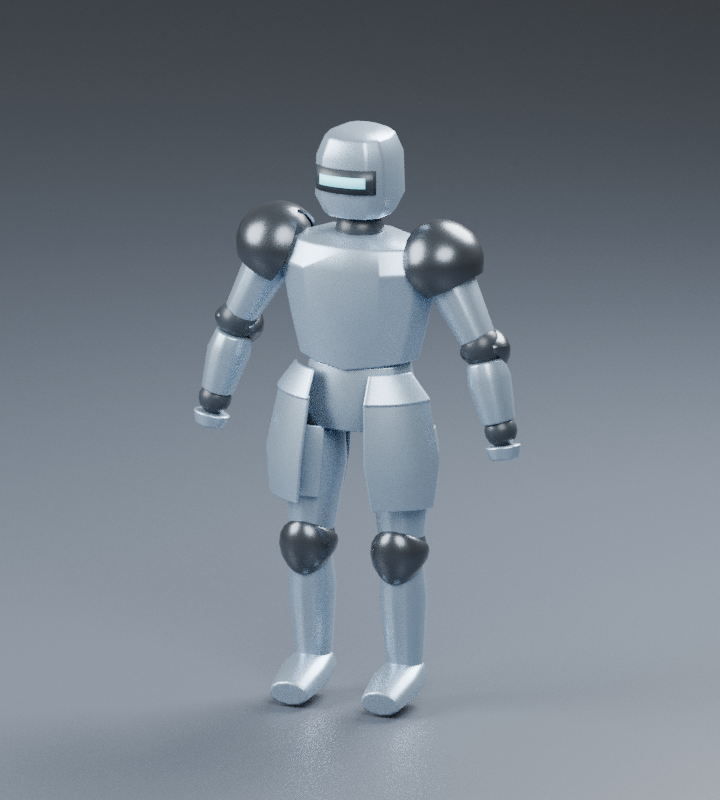
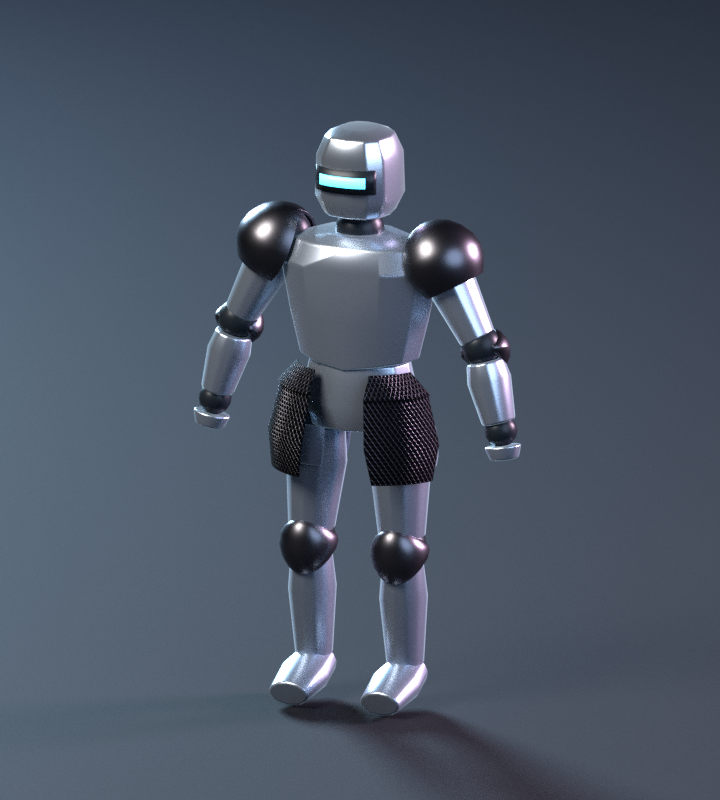
feat: adopt heroic player finish and chainmail hip skirts
Use the heroic player sprite's materials (rim-lit blue steel, dark iron
caps, glowing visor), night studio world, four-light rig and Medium High
Contrast look. Turn the diagonal hip plates into shorter blackened mail
with a procedural interlocking ring pattern, and end the cuisses above
the mail hem so no plate shows beneath it.

diff --git a/dev-samples/3d-stage1/rigged-armor/build.py b/dev-samples/3d-stage1/rigged-armor/build.py
@@ -30,18 +30,100 @@ for side, sign in [('L', 1), ('R', -1)]:
         f'shin.{side}': ((sign*.15, -.025, .52), (sign*.15, 0, .12), f'thigh.{side}'),
         f'foot.{side}': ((sign*.15, 0, .12), (sign*.15, -.20, .065), f'shin.{side}'),
         # Hinge at the top of the lower diagonal waist plate; driven by the thigh.
-        f'hip_plate.{side}': ((sign*.19, -.122, .98), (sign*.19, -.122, .66), 'pelvis'),
+        f'hip_plate.{side}': ((sign*.19, -.122, .997), (sign*.19, -.122, .741), 'pelvis'),
     })
 
 
-def material(name, color, metallic=0):
+def material(name, color, metallic=0, roughness=.38, emission=None, strength=0,
+             rim=None, rim_strength=0):
+    """Principled material with the heroic sprites' optional Fresnel rim glow
+    (see ../build-heroic.py material())."""
     mat = bpy.data.materials.new(name)
     mat.diffuse_color = (*color, 1)
     mat.use_nodes = True
-    shader = mat.node_tree.nodes.get('Principled BSDF')
+    nodes, links = mat.node_tree.nodes, mat.node_tree.links
+    shader = nodes.get('Principled BSDF')
     shader.inputs['Base Color'].default_value = (*color, 1)
     shader.inputs['Metallic'].default_value = metallic
-    shader.inputs['Roughness'].default_value = .38
+    shader.inputs['Roughness'].default_value = roughness
+    shader.inputs['IOR'].default_value = 1.45
+    if emission:
+        shader.inputs['Emission Color'].default_value = (*emission, 1)
+        shader.inputs['Emission Strength'].default_value = strength
+    if rim:
+        weight = nodes.new('ShaderNodeLayerWeight')
+        weight.inputs['Blend'].default_value = .3
+        power = nodes.new('ShaderNodeMath')
+        power.operation = 'POWER'
+        power.inputs[1].default_value = 3.5
+        glow = nodes.new('ShaderNodeEmission')
+        glow.inputs['Color'].default_value = (*rim, 1)
+        glow.inputs['Strength'].default_value = rim_strength
+        add = nodes.new('ShaderNodeAddShader')
+        mix = nodes.new('ShaderNodeMixShader')
+        links.new(weight.outputs['Facing'], power.inputs[0])
+        links.new(power.outputs[0], mix.inputs['Fac'])
+        links.new(shader.outputs[0], add.inputs[0])
+        links.new(glow.outputs[0], add.inputs[1])
+        links.new(shader.outputs[0], mix.inputs[1])
+        links.new(add.outputs[0], mix.inputs[2])
+        links.new(mix.outputs[0], nodes['Material Output'].inputs['Surface'])
+    return mat
+
+
+def chainmail_material(name, pitch=.016):
+    """Blackened iron mail: staggered rows of raised rings, each overlapping
+    its neighbors, over a dark gap,
+    laid out on the mesh UVs (in meters, so `pitch` is the ring spacing)."""
+    mat = material(name, (.10, .10, .115), 1.0, .38)
+    nodes, links = mat.node_tree.nodes, mat.node_tree.links
+    shader = nodes['Principled BSDF']
+
+    def math_node(op, a, b=None):
+        node = nodes.new('ShaderNodeMath')
+        node.operation = op
+        for socket, value in ((node.inputs[0], a), (node.inputs[1], b)):
+            if value is None:
+                continue
+            if isinstance(value, (int, float)):
+                socket.default_value = value
+            else:
+                links.new(value, socket)
+        return node.outputs[0]
+
+    uv = nodes.new('ShaderNodeTexCoord').outputs['UV']
+    split = nodes.new('ShaderNodeSeparateXYZ')
+    links.new(uv, split.inputs[0])
+    x = math_node('DIVIDE', split.outputs['X'], pitch)
+    # Rows overlap like real mail, so they sit closer than the ring spacing.
+    y = math_node('DIVIDE', split.outputs['Y'], pitch * .75)
+    # Every other row shifts by half a ring.
+    odd = math_node('FLOORED_MODULO', math_node('FLOOR', y), 2)
+    x = math_node('ADD', x, math_node('MULTIPLY', odd, .5))
+    fx = math_node('SUBTRACT', math_node('FRACT', x), .5)
+    fy = math_node('MULTIPLY', math_node('SUBTRACT', math_node('FRACT', y), .5), .75)
+    distance = math_node('SQRT', math_node('ADD', math_node('MULTIPLY', fx, fx),
+                                           math_node('MULTIPLY', fy, fy)))
+    off_wire = math_node('ABSOLUTE', math_node('SUBTRACT', distance, .44))
+    ring = nodes.new('ShaderNodeMapRange')
+    ring.interpolation_type = 'SMOOTHSTEP'
+    ring.inputs['From Min'].default_value, ring.inputs['From Max'].default_value = 0, .09
+    ring.inputs['To Min'].default_value, ring.inputs['To Max'].default_value = 1, 0
+    links.new(off_wire, ring.inputs['Value'])
+    wire = ring.outputs['Result']
+    color = nodes.new('ShaderNodeMix')
+    color.data_type = 'RGBA'
+    color.inputs['A'].default_value = (.008, .009, .012, 1)
+    color.inputs['B'].default_value = (.13, .13, .15, 1)
+    links.new(wire, color.inputs['Factor'])
+    links.new(color.outputs['Result'], shader.inputs['Base Color'])
+    links.new(math_node('SUBTRACT', .75, math_node('MULTIPLY', wire, .45)),
+              shader.inputs['Roughness'])
+    bump = nodes.new('ShaderNodeBump')
+    bump.inputs['Strength'].default_value = .8
+    bump.inputs['Distance'].default_value = .003
+    links.new(wire, bump.inputs['Height'])
+    links.new(bump.outputs['Normal'], shader.inputs['Normal'])
     return mat
 
 
@@ -196,24 +278,27 @@ def joint(rig, bone_name, radius, mat):
 
 
 def diagonal_waist_plates(rig, mat):
-    """Hang curved tassets around the front-side quarters of the hips.
+    """Hang curved mail skirts around the front-side quarters of the hips.
 
     The upper band is fixed to the pelvis. The lower plate tucks under it and
     swings on hip_plate so a raised thigh does not pass through it.
     """
     # Arc centered 50 degrees away from the front, wrapping toward the side.
     parts = [('Diagonal waist plate', 'pelvis',
-              [(1.065, .19, .145, 23), (.98, .25, .19, 29)]),
+              [(1.065, .19, .145, 23), (.997, .25, .19, 29)]),
              ('Diagonal waist plate lower', 'hip_plate',
-              [(.995, .238, .178, 29), (.80, .28, .21, 29), (.66, .27, .20, 24)])]
+              [(1.009, .238, .178, 29), (.853, .28, .21, 29), (.741, .27, .20, 24)])]
     for side, sign in (('L', 1), ('R', -1)):
         for name, bone_name, rows in parts:
-            vertices = []
+            vertices, uvs = [], []
             for z, radius_x, radius_y, half_angle in rows:
                 for i in range(13):
                     angle = math.radians(50 + half_angle * (2 * i / 12 - 1))
                     vertices.append((sign * radius_x * math.sin(angle),
                                      -radius_y * math.cos(angle), z))
+                    # Arc length and height in meters, shared by both parts
+                    # so the mail pattern runs on across the seam.
+                    uvs.append((sign * (angle - math.radians(50)) * .25, z))
             faces = []
             for row in range(len(rows) - 1):
                 for i in range(12):
@@ -222,25 +307,36 @@ def diagonal_waist_plates(rig, mat):
                     faces.append(face if sign == 1 else tuple(reversed(face)))
             mesh = bpy.data.meshes.new(f'{name} {side}')
             mesh.from_pydata(vertices, [], faces)
+            layer = mesh.uv_layers.new(name='Mail')
+            for loop in mesh.loops:
+                layer.data[loop.index].uv = uvs[loop.vertex_index]
             mesh.update()
             obj = bpy.data.objects.new(mesh.name, mesh)
             bpy.context.collection.objects.link(obj)
             attach(obj, rig, bone_name if bone_name == 'pelvis' else f'{bone_name}.{side}', mat)
-            solidify = obj.modifiers.new('Plate thickness', 'SOLIDIFY')
-            solidify.thickness = .012
+            for face in mesh.polygons:
+                face.use_smooth = True
+            # Mail is thinner than plate.
+            solidify = obj.modifiers.new('Mail thickness', 'SOLIDIFY')
+            solidify.thickness = .007
             bpy.context.view_layer.objects.active = obj
             bpy.ops.object.modifier_move_up(modifier=solidify.name)
             bpy.ops.object.modifier_move_up(modifier=solidify.name)
 
 
 def build_armor(rig):
-    steel = material('Satin steel', (.32, .43, .55), .75)
-    trim = material('Blackened joint steel', (.09, .105, .125), .85)
-    trim.node_tree.nodes.get('Principled BSDF').inputs['Roughness'].default_value = .28
+    # Same finishes as the heroic player sprite (../build-heroic.py).
+    steel = material('Player steel plate', (.55, .63, .74), .8, .32,
+                     rim=(.6, .85, 1.0), rim_strength=.8)
+    helm = material('Player steel helm', (.62, .70, .80), .85, .28,
+                    rim=(.7, .9, 1.0), rim_strength=.9)
+    greaves = material('Player steel greaves', (.45, .52, .62), .8, .35,
+                       rim=(.6, .8, 1.0), rim_strength=.6)
+    trim = material('Player dark iron trim', (.16, .16, .18), 1.0, .35)
     dark = material('Dark joint lining', (.025, .034, .045), .15)
     plate(rig, 'pelvis', 'Hip armor', [(0,.17,.12),(.08,.19,.14),(.205,.16,.12)], steel)
     plate(rig, 'waist', 'Flexible waist lining', [(0,.135,.10),(.16,.145,.11)], dark)
-    diagonal_waist_plates(rig, steel)
+    diagonal_waist_plates(rig, chainmail_material('Blackened chainmail'))
     breastplate = plate(rig, 'chest', 'Breast and back plate', [(-.085,.175,.13),(.04,.205,.145),
           (.20,.235,.16),(.27,.20,.13),(.30,.115,.09)], steel)
     # Extend the front center of the lower rim into a shallow V over the abdomen.
@@ -253,7 +349,7 @@ def build_armor(rig):
     joint(rig, 'neck', .075, dark)
     helmet_rings = [(-.035,.10,.105),(.025,.13,.13),
                     (.15,.125,.13),(.21,.10,.105),(.23,.055,.06)]
-    helmet = plate(rig, 'head', 'Helmet', helmet_rings, steel)
+    helmet = plate(rig, 'head', 'Helmet', helmet_rings, helm)
     matrix = rig.data.bones['head'].matrix_local
     for row, (along, width, depth) in enumerate(helmet_rings):
         for i in range(12):
@@ -283,10 +379,8 @@ def build_armor(rig):
         for face in mesh.polygons:
             face.use_smooth = True
     curved_visor('Visor curved rim', .20, .075, .008, dark)
-    glow = material('Visor pale cyan', (.22, .68, .78))
-    shader = glow.node_tree.nodes.get('Principled BSDF')
-    shader.inputs['Emission Color'].default_value = (.12, .65, .8, 1)
-    shader.inputs['Emission Strength'].default_value = 1.5
+    glow = material('Player visor glow', (.3, .9, 1.0), roughness=.35,
+                    emission=(.1, .75, 1.0), strength=2.5)
     curved_visor('Visor illuminated opening', .15, .032, .014, glow)
     for side in ('L','R'):
         for part, radius in [('upper_arm',.085),('forearm',.062),('hand',.05),
@@ -298,7 +392,8 @@ def build_armor(rig):
             length = rig.data.bones[bone_name].length
             plate(rig, bone_name, f'{part} plate {side}',
                   [(.045,width*.85,depth*.85),(length*.4,width,depth),
-                   (length-.025,width*.75,depth*.8)], steel)
+                   (length-.025,width*.75,depth*.8)],
+                  greaves if part in ('thigh', 'shin') else steel)
         plate(rig, f'upper_arm.{side}', f'Pauldron {side}',
               [(-.083,.008,.008),(-.077,.04,.04),(-.061,.07,.07),
                (-.035,.095,.095),(0,.115,.115),(.035,.122,.122),
@@ -313,12 +408,13 @@ def build_armor(rig):
                (.014,.078,.085),(.032,.072,.079),(.045,.058,.064),(.05,.049,.055)], trim,
               joint_inner_front=True, open_ends=True, top_cap=False)
         plate(rig, f'foot.{side}', f'Sabaton {side}',
-              [(-.025,.065,.055),(.075,.08,.06),(.20,.065,.04)], steel)
+              [(-.025,.065,.055),(.075,.08,.06),(.20,.065,.04)], greaves)
         # Cuisse shell hugs the thigh plate, open on the inner thigh; its top
-        # edge starts inside the hip armor so no flat rim shows.
+        # edge starts inside the hip armor and it ends above the mail hem, so
+        # it never shows as a second plate below the mail.
         plate(rig, f'thigh.{side}', f'Cuisse {side}',
-              [(.03,.098,.104),(.08,.106,.112),(.15,.106,.112),
-               (.21,.099,.104),(.25,.092,.097)], steel,
+              [(.03,.098,.104),(.08,.106,.112),(.12,.104,.11),
+               (.15,.098,.104)], greaves,
               open_ends=True, top_cap=False)
     for obj in bpy.context.scene.objects:
         if obj.name.startswith(('Pauldron ', 'Knee cap ', 'Elbow cap ', 'Cuisse ')):
@@ -361,23 +457,34 @@ def animate(rig, scene):
 
 def setup_scene(scene):
     scene.render.engine = 'CYCLES'
-    scene.cycles.samples = 48
+    # Render, world and light rig follow the heroic sprites (../build-heroic.py).
+    scene.cycles.samples = 96
     scene.cycles.use_denoising = False
-    scene.world = bpy.data.worlds.new('Studio world')
-    scene.world.color = (.18,.18,.18)
-    floor = material('Studio floor', (.065,.08,.105))
+    scene.cycles.sample_clamp_indirect = 2.0
+    scene.cycles.blur_glossy = 1.0
+    scene.cycles.caustics_reflective = scene.cycles.caustics_refractive = False
+    scene.view_settings.view_transform = 'Standard'
+    scene.view_settings.look = 'Medium High Contrast'
+    scene.world = bpy.data.worlds.new('Night studio')
+    scene.world.use_nodes = True
+    scene.world.node_tree.nodes['Background'].inputs['Color'].default_value = (.012, .018, .03, 1)
+    floor = material('Night floor', (.006, .008, .014), roughness=.8)
     ground_z = min((obj.matrix_world @ v.co).z for obj in scene.objects
                    if obj.type == 'MESH' for v in obj.data.vertices)
     bpy.ops.mesh.primitive_plane_add(size=200)
     bpy.context.object.name = 'Studio floor'
     bpy.context.object.location.z = ground_z - .005
     bpy.context.object.data.materials.append(floor)
-    for name, loc, power, size in [('Key', (3,-4,5), 650, 4),
-                                  ('Fill', (-3,-2,3), 450, 3),
-                                  ('Rim', (1,3,4), 800, 3)]:
+    # Warm key, cool fill, strong back rim lights for glossy edges.
+    for name, loc, power, size, color in [
+            ('Key', (-4,-6,8), 1000, 5, (1.0,.93,.85)),
+            ('Fill', (6,-3,4), 250, 6, (.6,.75,1.0)),
+            ('Rim left', (-7,6,4), 1300, 3, (.55,.8,1.0)),
+            ('Rim right', (7,6,4), 1300, 3, (1.0,.7,.9))]:
         bpy.ops.object.light_add(type='AREA', location=loc)
         obj = bpy.context.object
         obj.name, obj.data.energy, obj.data.shape, obj.data.size = name, power, 'DISK', size
+        obj.data.color = color
         obj.rotation_euler = (Vector((0,0,1))-obj.location).to_track_quat('-Z','Y').to_euler()
     bpy.ops.object.camera_add(location=(2.7,-6,2.7))
     camera = bpy.context.object

diff --git a/dev-samples/3d-stage1/rigged-armor/README.md b/dev-samples/3d-stage1/rigged-armor/README.md
@@ -27,19 +27,21 @@ Rotation で回転させる。回転はボーンのローカル座標。
 肘と膝には Limit Rotation を設定し、他の2軸を固定している。
 肩当ては上腕、肘当ては前腕、膝当てはすね、腿当ては左右の太ももに追従する。
 腿当ては太ももの板に沿う開いた殻で、内股側を空け、上端は腰甲の内側から始まる。
+下端は鎖帷子の裾より上で終わり、裾の下に板が見えないようにしている。
 肩当て・肘当て・膝当ては丸みのある黒っぽい金属製。
 肘当てと膝当ては、曲がる内側の幅を狭く、外側を広くした形状。
 肩当ては胸側の側面を切り欠いた中空の外装で、腕の付け根が入る余地を設けている。
 肘当てと膝当ても中空の殻で、曲がる軸の内側（肘は前、膝は後ろ）が開いている。
 開口部に向かって帯の幅が楕円状に狭まり、端は脚や腕に寄せて丸く閉じる。
 胸甲は腹部まで伸ばし、正面の下端は中央が少し下がる浅いV字にしている。
-左右の斜め前には、骨盤から下げた湾曲プレートを追加している。
+左右の斜め前には、骨盤から下げた黒い鉄の鎖帷子を追加している。
+輪が互い違いに重なる模様は、UV 上のノード計算による凹凸と色で表している。
 正面から左右50度の位置を中心に側面へ回り込み、中央を広く空けた形状。
-プレートは上下2枚に分かれる。上の帯は骨盤に固定し、下の板は上の帯の内側に
+鎖帷子は上下2枚に分かれる。上の帯は骨盤に固定し、下の板は上の帯の内側に
 上端を差し込み、`hip_plate` ボーンで上端を軸に回る。太ももを前に上げると
 同じ角度だけ前に振れ、後ろに引いたときは垂れたまま動かない。
 腰の金色のリングは設けず、腰甲の上端をその高さまで伸ばしている。
-太ももを前に約60度以上上げると、下の板と腿当てが干渉する。
+太ももを前に約65度以上上げると、下の鎖帷子と腿当てが干渉する。
 
 タイムラインのマーカーでサンプルのポーズを選べる。
 
@@ -69,6 +71,10 @@ blender --background --threads 4 --python dev-samples/3d-stage1/rigged-armor/bui
 - `plate()`: ボーン始点からの距離・幅・厚みを指定して板金形状を作る。
 - `POSES`: ボーンごとの回転角（度）。首と腰は第3成分をひねりとしてローカルYに変換。
 - `validate()`: 必須10関節の回転でパーツが実際に追従し、体積スケールが変化しないことを検証する。
+- `material()` / `setup_scene()`: 質感と照明。`../heroic/preview-player-facings.jpg` の
+  主人公（`../build-heroic.py`）に合わせ、青みの鋼（縁がほのかに光る）、兜・脚用の鋼、
+  黒い鉄の肩・肘・膝当て、水色に光る覗き窓を使う。夜のスタジオの背景・床、
+  暖色のキー・寒色のフィル・左右の逆光、Medium High Contrast の色調も同じ。
 
 自動ウェイトは使わず、金属部分を硬い部品として扱う。首や肘・膝には暗色の
 関節部品を置き、外装の間に曲げる余地を設けている。大きな角度での装甲干渉は
